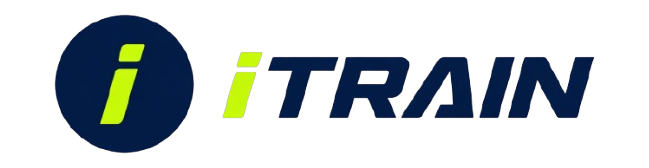
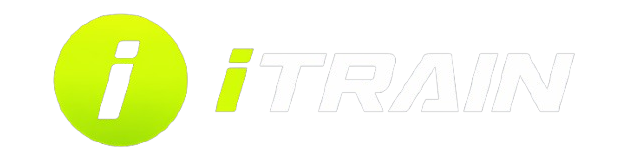
auto-commit for 708c3d24-c853-4c1f-84ac-43918650f2a5

Changed region(s): [[0.3328, 0.2795, 0.9379, 0.7143], [0.0605, 0.0621, 0.3025, 0.9317]]

diff --git a/memory/PRD.md b/memory/PRD.md
@@ -14,7 +14,8 @@
 Las imágenes fuente `/app/frontend/public/brand/itrain-full-pdf.png` (623x240) e `itrain-icon-pdf.png` (113x240) tenían el contenido tocando literalmente el borde derecho del lienzo PNG: la última columna (x=622) tenía 46-61 píxeles no transparentes. Cualquier mínimo subpíxel de rendering cortaba la letra "N" final de "iTRAIN". Ningún ajuste de CSS podía salvarlo porque la imagen fuente ya venía mal recortada.
 
 **Fix aplicado:**
-- Regenerados ambos PNG desde las fuentes limpias (`itrain-full-dark.png`, `itrain-icon-dark-v2.png`) añadiendo padding transparente del 10% (mín 14px) en los 4 lados. Resultado: `itrain-full-pdf.png` 649x168 (aspect 3.86), `itrain-icon-pdf.png` 169x168 (aspect 1.0). Verificado: 0 píxeles no transparentes en la última columna.
+- Regenerados ambos PNG añadiendo padding transparente del 10% (mín 14px) en los 4 lados. **Para el HERO (fondo oscuro) se usa `itrain-full-light.png` (texto BLANCO)**, y para el footer (fondo claro) `itrain-icon-dark-v2.png` (azul oscuro). Resultado: `itrain-full-pdf.png` 628×161 (aspect 3.90), `itrain-icon-pdf.png` 169×168 (aspect 1.0). Verificado: 0 píxeles no transparentes en la última columna.
+- **Segunda iteración**: el primer intento usó por error `itrain-full-dark.png` (texto azul oscuro) sobre el hero oscuro, lo cual fundía el logo con el fondo. Fixed usando la versión light.
 - Actualizados los estilos CSS en `/app/backend/routes/periodization_models.py` (`PDI_WHITEPAPER_HTML`):
   - `.brand-mark img`: `height: 34pt; width: 132pt` (respeta nuevo aspect 3.86)
   - `.footer-brand img`: `height: 20pt; width: 20pt` (nuevo icon es cuadrado 1:1)
